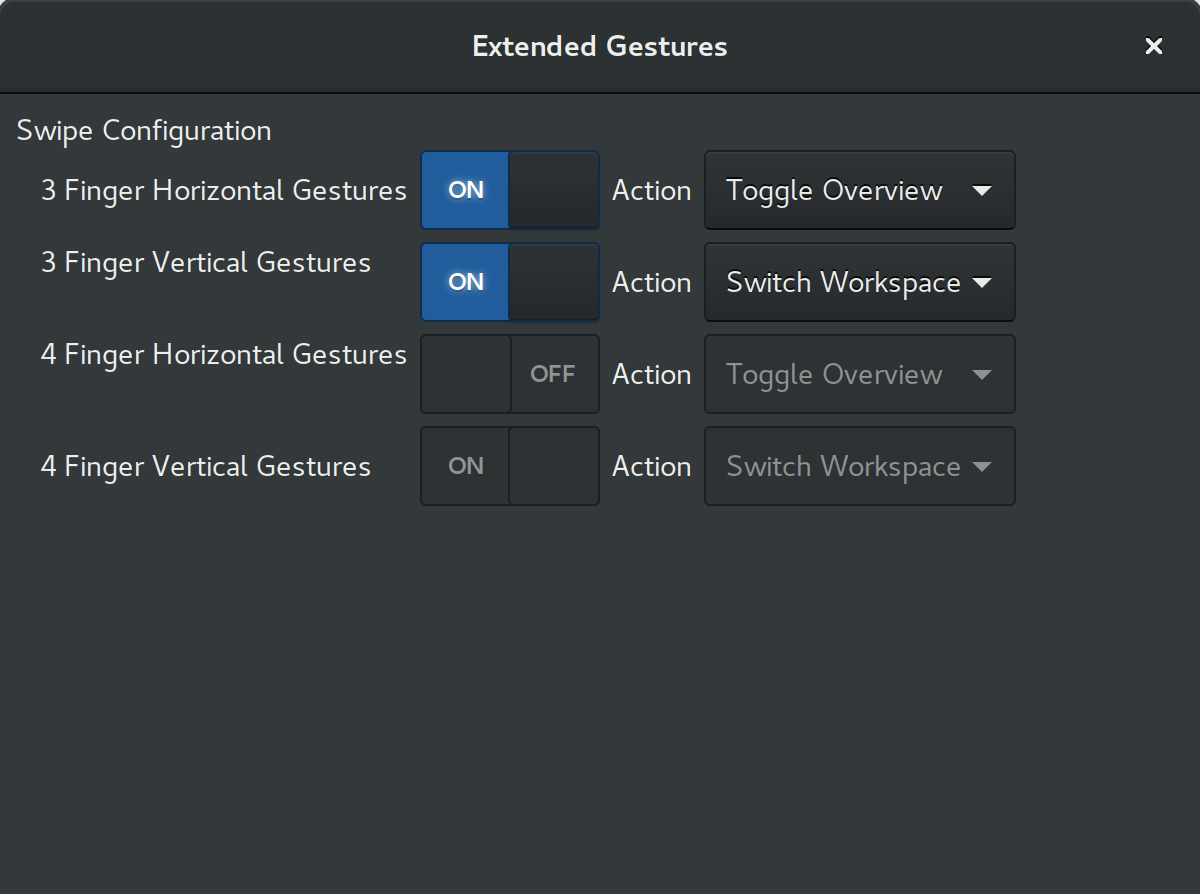
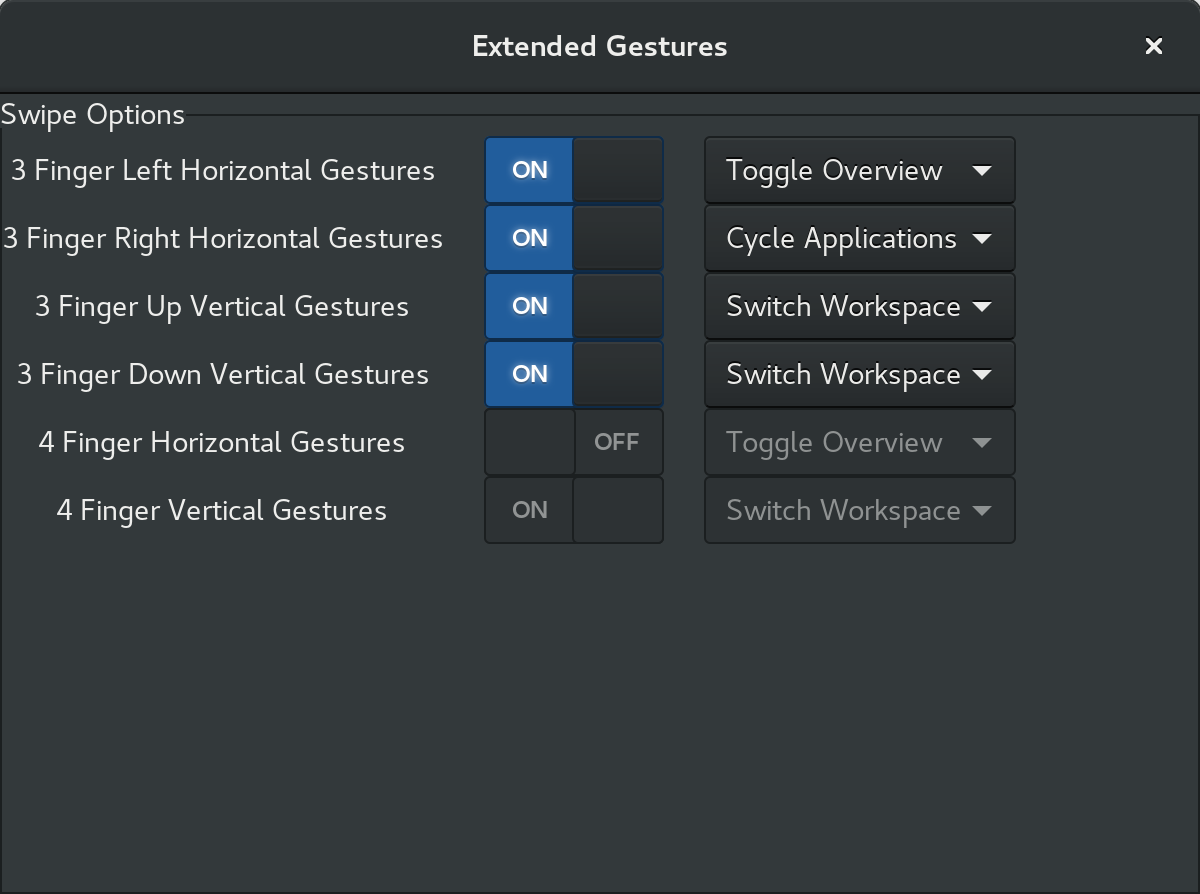
Better prefs spacing, updated screenshot

diff --git a/extendedgestures@mpiannucci.github.com/prefs.js b/extendedgestures@mpiannucci.github.com/prefs.js
@@ -30,7 +30,10 @@ const ExtendedGesturesSettingsWidget = new GObject.Class({
         // The swipe options grid setup
         this._swipeOptionsFrame = new Gtk.Frame();
         this._swipeOptionsFrame.set_label("Swipe Options");
-        this._swipeOptionsGrid = new Gtk.Grid();
+        this._swipeOptionsGrid = new Gtk.Grid({
+            column_homogeneous: false,
+            column_spacing: 20
+        });
         this._swipeOptionsFrame.add(this._swipeOptionsGrid);
         
         // The swipe options
